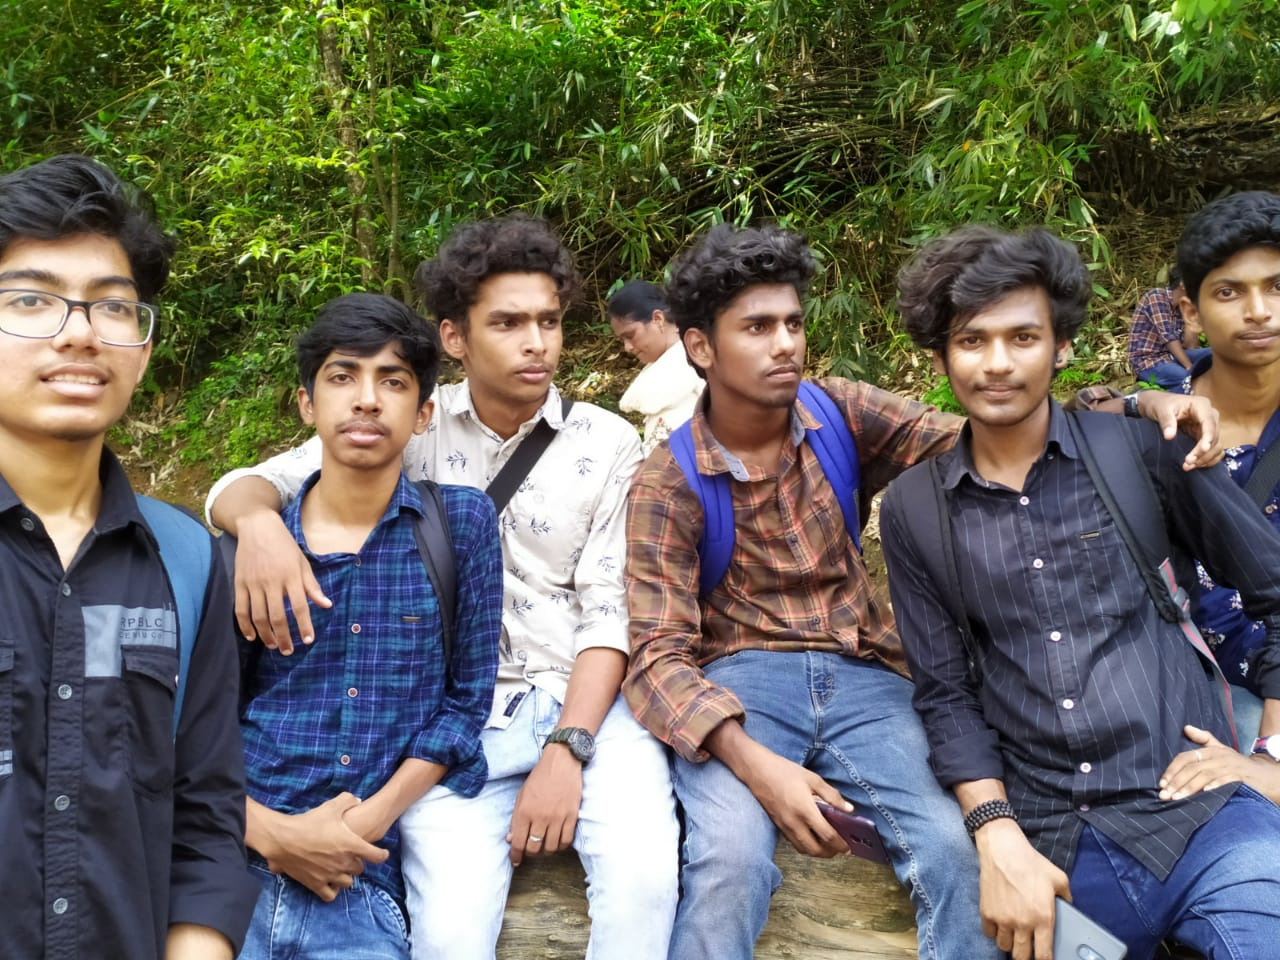
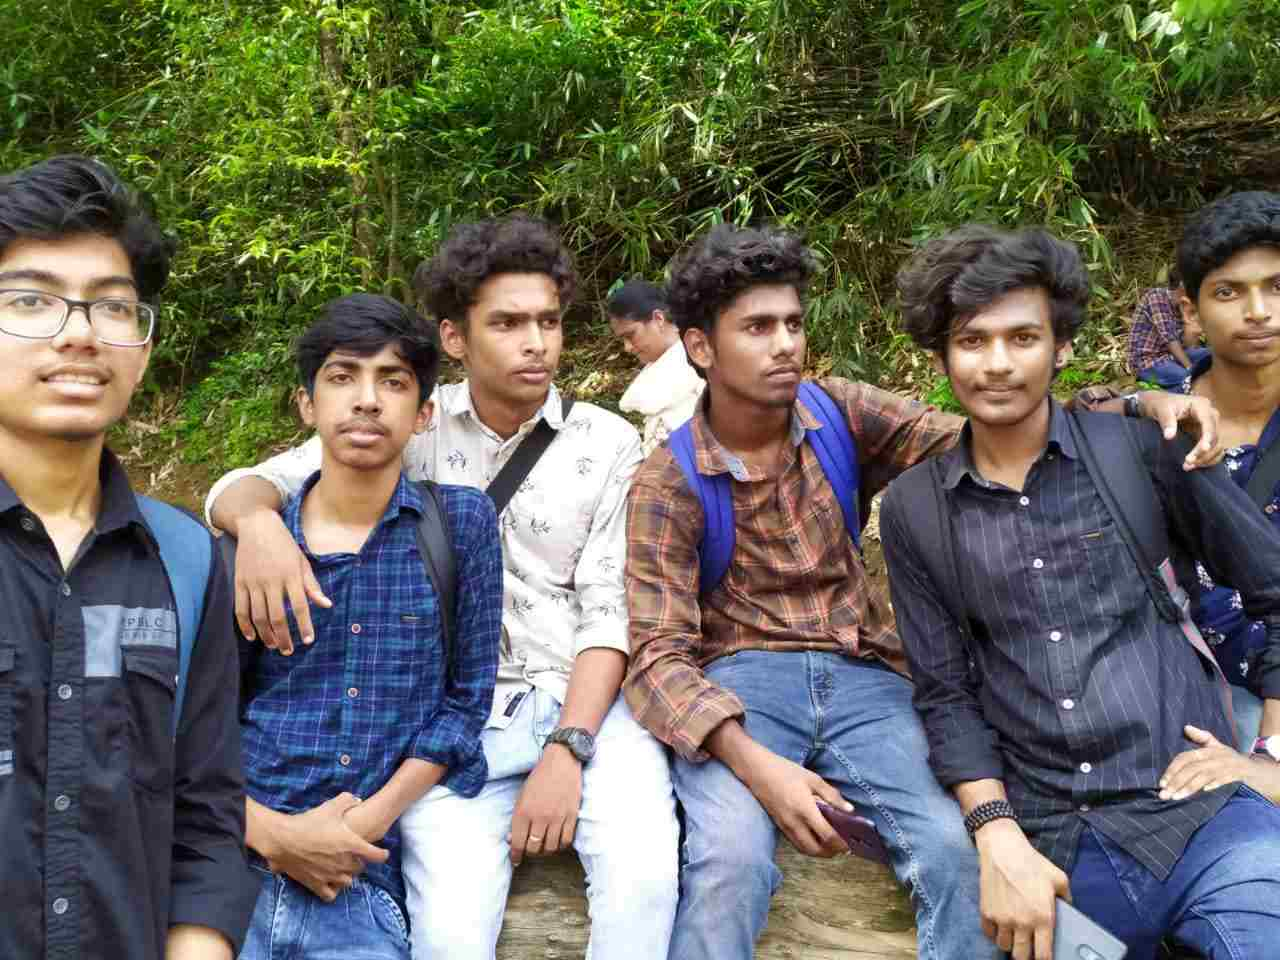
image optimized

diff --git a/_layouts/gallery.html b/_layouts/gallery.html
@@ -175,6 +175,17 @@
                     </a>
                 </div>
             </div>
+            <div class="col-md-8 col-sm-6">
+                <div class="portfolio-item">
+                    <a href="/static/img/mime.jpg" data-lightbox="image-1">
+                        <div class="thumb">
+                            <div class="image">
+                                <img src="/static/img/mime.jpg" alt="rahulmanojcet with his team for mime at College Of engineering, Trivandrum.">
+                            </div>
+                        </div>
+                    </a>
+                </div>
+            </div>
         </div>
     </div>
 
